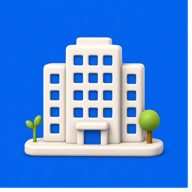
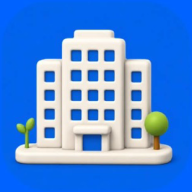
fix(twa): fix asset_statements escaping, remove update notification popups, and add exact 3D building splash screen

diff --git a/src/components/PwaUpdatePrompt.tsx b/src/components/PwaUpdatePrompt.tsx
@@ -1,212 +1,42 @@
-import { useEffect, useState, useCallback } from "react";
-import { RefreshCw, Sparkles, Download, X } from "lucide-react";
-import { Button } from "@/components/ui/button";
+import { useEffect } from "react";
 
-interface BeforeInstallPromptEvent extends Event {
-  prompt: () => Promise<void>;
-  userChoice: Promise<{ outcome: "accepted" | "dismissed" }>;
-}
-
+/**
+ * PwaUpdatePrompt: Handles silent background Service Worker activation
+ * without displaying any intrusive notification popups or banners.
+ */
 export const PwaUpdatePrompt = () => {
-  const [waitingWorker, setWaitingWorker] = useState<ServiceWorker | null>(null);
-  const [showUpdate, setShowUpdate] = useState(false);
-  const [isUpdating, setIsUpdating] = useState(false);
-  const [deferredInstallPrompt, setDeferredInstallPrompt] = useState<BeforeInstallPromptEvent | null>(null);
-  const [showInstallPrompt, setShowInstallPrompt] = useState(false);
-
-  // Handle service worker update
-  const applyUpdate = useCallback(() => {
-    if (!waitingWorker) {
-      window.location.reload();
-      return;
-    }
-    setIsUpdating(true);
-    // Tell the waiting worker to activate immediately
-    waitingWorker.postMessage({ type: "SKIP_WAITING" });
-  }, [waitingWorker]);
-
   useEffect(() => {
     if (!("serviceWorker" in navigator)) return;
 
-    let refreshing = false;
-
-    // When the new worker takes control, reload the page to load fresh assets
-    const handleControllerChange = () => {
-      if (!refreshing) {
-        refreshing = true;
-        window.location.reload();
-      }
-    };
-
-    navigator.serviceWorker.addEventListener("controllerchange", handleControllerChange);
-
-    // Check existing registration
+    // Periodically trigger background SW update checks
     navigator.serviceWorker.getRegistration().then((reg) => {
       if (!reg) return;
 
-      // If a worker is already waiting, prompt immediately
+      // Auto activate waiting worker silently
       if (reg.waiting) {
-        setWaitingWorker(reg.waiting);
-        setShowUpdate(true);
+        reg.waiting.postMessage({ type: "SKIP_WAITING" });
       }
 
-      // Listen for new updates
       reg.addEventListener("updatefound", () => {
         const newWorker = reg.installing;
         if (!newWorker) return;
-
         newWorker.addEventListener("statechange", () => {
-          if (newWorker.state === "installed" && navigator.serviceWorker.controller) {
-            // New version installed and waiting
-            setWaitingWorker(newWorker);
-            setShowUpdate(true);
+          if (newWorker.state === "installed") {
+            newWorker.postMessage({ type: "SKIP_WAITING" });
           }
         });
       });
 
-      // Periodically check for updates every 15 minutes
-      const updateInterval = setInterval(() => {
-        reg.update().catch(() => undefined);
-      }, 15 * 60 * 1000);
-
-      // Check on window focus / visibility change
-      const handleVisibilityChange = () => {
+      // Check for updates on resume/visibility change
+      const handleVisibility = () => {
         if (document.visibilityState === "visible") {
           reg.update().catch(() => undefined);
         }
       };
-      document.addEventListener("visibilitychange", handleVisibilityChange);
-
-      return () => {
-        clearInterval(updateInterval);
-        document.removeEventListener("visibilitychange", handleVisibilityChange);
-      };
+      document.addEventListener("visibilitychange", handleVisibility);
+      return () => document.removeEventListener("visibilitychange", handleVisibility);
     });
-
-    // PWA Install prompt listener for browsers
-    const handleBeforeInstall = (e: Event) => {
-      e.preventDefault();
-      const installEvent = e as BeforeInstallPromptEvent;
-      setDeferredInstallPrompt(installEvent);
-
-      // Only show install prompt on web if not standalone and not dismissed recently
-      const isStandalone =
-        window.matchMedia("(display-mode: standalone)").matches ||
-        (window.navigator as unknown as { standalone?: boolean }).standalone === true;
-
-      const dismissedAt = localStorage.getItem("pg_hub_pwa_install_dismissed");
-      const isRecentlyDismissed = dismissedAt && Date.now() - Number(dismissedAt) < 7 * 24 * 60 * 60 * 1000;
-
-      if (!isStandalone && !isRecentlyDismissed) {
-        setShowInstallPrompt(true);
-      }
-    };
-
-    window.addEventListener("beforeinstallprompt", handleBeforeInstall);
-
-    return () => {
-      navigator.serviceWorker.removeEventListener("controllerchange", handleControllerChange);
-      window.removeEventListener("beforeinstallprompt", handleBeforeInstall);
-    };
   }, []);
 
-  const handleInstallClick = async () => {
-    if (!deferredInstallPrompt) return;
-    setShowInstallPrompt(false);
-    await deferredInstallPrompt.prompt();
-    const { outcome } = await deferredInstallPrompt.userChoice;
-    if (outcome === "accepted") {
-      setDeferredInstallPrompt(null);
-    }
-  };
-
-  const dismissInstallPrompt = () => {
-    localStorage.setItem("pg_hub_pwa_install_dismissed", String(Date.now()));
-    setShowInstallPrompt(false);
-  };
-
-  return (
-    <>
-      {/* PWA Update Banner */}
-      {showUpdate && (
-        <div
-          className="fixed top-4 inset-x-3 sm:inset-x-auto sm:right-4 sm:max-w-md z-[9999] animate-in fade-in slide-in-from-top-4 duration-300"
-          role="alert"
-        >
-          <div className="flex items-center gap-3 rounded-2xl border border-primary/20 bg-card/95 p-3.5 shadow-2xl backdrop-blur-md dark:border-primary/30">
-            <div className="flex h-10 w-10 shrink-0 items-center justify-center rounded-xl bg-primary text-primary-foreground shadow-md">
-              {isUpdating ? (
-                <RefreshCw className="h-5 w-5 animate-spin" />
-              ) : (
-                <Sparkles className="h-5 w-5" />
-              )}
-            </div>
-            <div className="min-w-0 flex-1">
-              <p className="text-sm font-bold text-foreground">PG HUB Update Ready</p>
-              <p className="text-xs text-muted-foreground">
-                {isUpdating ? "Refreshing to latest version…" : "Tap update to load the latest features."}
-              </p>
-            </div>
-            <div className="flex items-center gap-1.5 shrink-0">
-              <Button
-                size="sm"
-                className="h-8 rounded-xl font-bold px-3 text-xs bg-primary hover:bg-primary/90 text-primary-foreground"
-                disabled={isUpdating}
-                onClick={applyUpdate}
-              >
-                {isUpdating ? "Updating…" : "Update"}
-              </Button>
-              <Button
-                variant="ghost"
-                size="icon"
-                className="h-8 w-8 rounded-xl text-muted-foreground"
-                onClick={() => setShowUpdate(false)}
-                aria-label="Dismiss update banner"
-              >
-                <X className="h-4 w-4" />
-              </Button>
-            </div>
-          </div>
-        </div>
-      )}
-
-      {/* Web PWA Install Prompt Banner */}
-      {showInstallPrompt && !showUpdate && (
-        <div
-          className="fixed bottom-[calc(80px+env(safe-area-inset-bottom,0px))] inset-x-3 sm:inset-x-auto sm:right-4 sm:max-w-sm z-[9990] animate-in fade-in slide-in-from-bottom-4 duration-300"
-          role="region"
-          aria-label="Install PG HUB App"
-        >
-          <div className="flex items-center gap-3 rounded-2xl border border-border bg-card/95 p-3 shadow-xl backdrop-blur-md">
-            <div className="flex h-9 w-9 shrink-0 items-center justify-center rounded-xl bg-primary/10 text-primary">
-              <Download className="h-4 w-4" />
-            </div>
-            <div className="min-w-0 flex-1">
-              <p className="text-xs font-bold text-foreground">Install PG HUB</p>
-              <p className="text-[11px] text-muted-foreground">Get fast full-screen app access</p>
-            </div>
-            <div className="flex items-center gap-1 shrink-0">
-              <Button
-                size="sm"
-                variant="default"
-                className="h-7 text-xs font-bold rounded-lg px-2.5"
-                onClick={handleInstallClick}
-              >
-                Install
-              </Button>
-              <Button
-                size="icon"
-                variant="ghost"
-                className="h-7 w-7 rounded-lg text-muted-foreground"
-                onClick={dismissInstallPrompt}
-                aria-label="Close install prompt"
-              >
-                <X className="h-3.5 w-3.5" />
-              </Button>
-            </div>
-          </div>
-        </div>
-      )}
-    </>
-  );
+  return null;
 };

diff --git a/index.html b/index.html
@@ -106,7 +106,13 @@
 </head>
 
   <body>
-    <div id="root"></div>
+    <div id="root">
+      <div style="position: fixed; inset: 0; background: #0062FF; display: flex; flex-direction: column; align-items: center; justify-content: center; z-index: 99999; margin: 0; padding: 0;">
+        <div style="width: 150px; height: 150px; display: flex; align-items: center; justify-content: center;">
+          <img src="/pwa-splash-logo.png" alt="PG HUB" style="width: 100%; height: 100%; object-fit: contain; border-radius: 32px; box-shadow: 0 20px 40px -10px rgba(0, 20, 80, 0.4);" />
+        </div>
+      </div>
+    </div>
     <noscript>Please enable JavaScript to use PG HUB.</noscript>
     <script type="module" src="/src/main.tsx"></script>
   </body>

diff --git a/public/serviceWorker.js b/public/serviceWorker.js
@@ -12,17 +12,13 @@ const STATIC_ASSETS = [
   '/apple-touch-icon.png',
 ];
 
-// Install event - pre-cache core static shell
+// Install event - pre-cache core static shell and activate immediately
 self.addEventListener('install', (event) => {
   event.waitUntil(
     caches
       .open(STATIC_CACHE)
       .then((cache) => cache.addAll(STATIC_ASSETS))
-      .then(() => {
-        // Do not force skipWaiting automatically on install so that users
-        // currently in an active form flow aren't interrupted abruptly.
-        // PwaUpdatePrompt will send 'SKIP_WAITING' when user accepts reload.
-      })
+      .then(() => self.skipWaiting())
   );
 });
 

diff --git a/src/App.tsx b/src/App.tsx
@@ -139,7 +139,6 @@ const AppContent = () => {
   return (
     <MonthProvider>
       <PwaUpdatePrompt />
-      <PlayStoreUpdateManager />
       <ActiveTabProvider>
       <PGSetupDraftProvider>
       <BrowserRouter>
